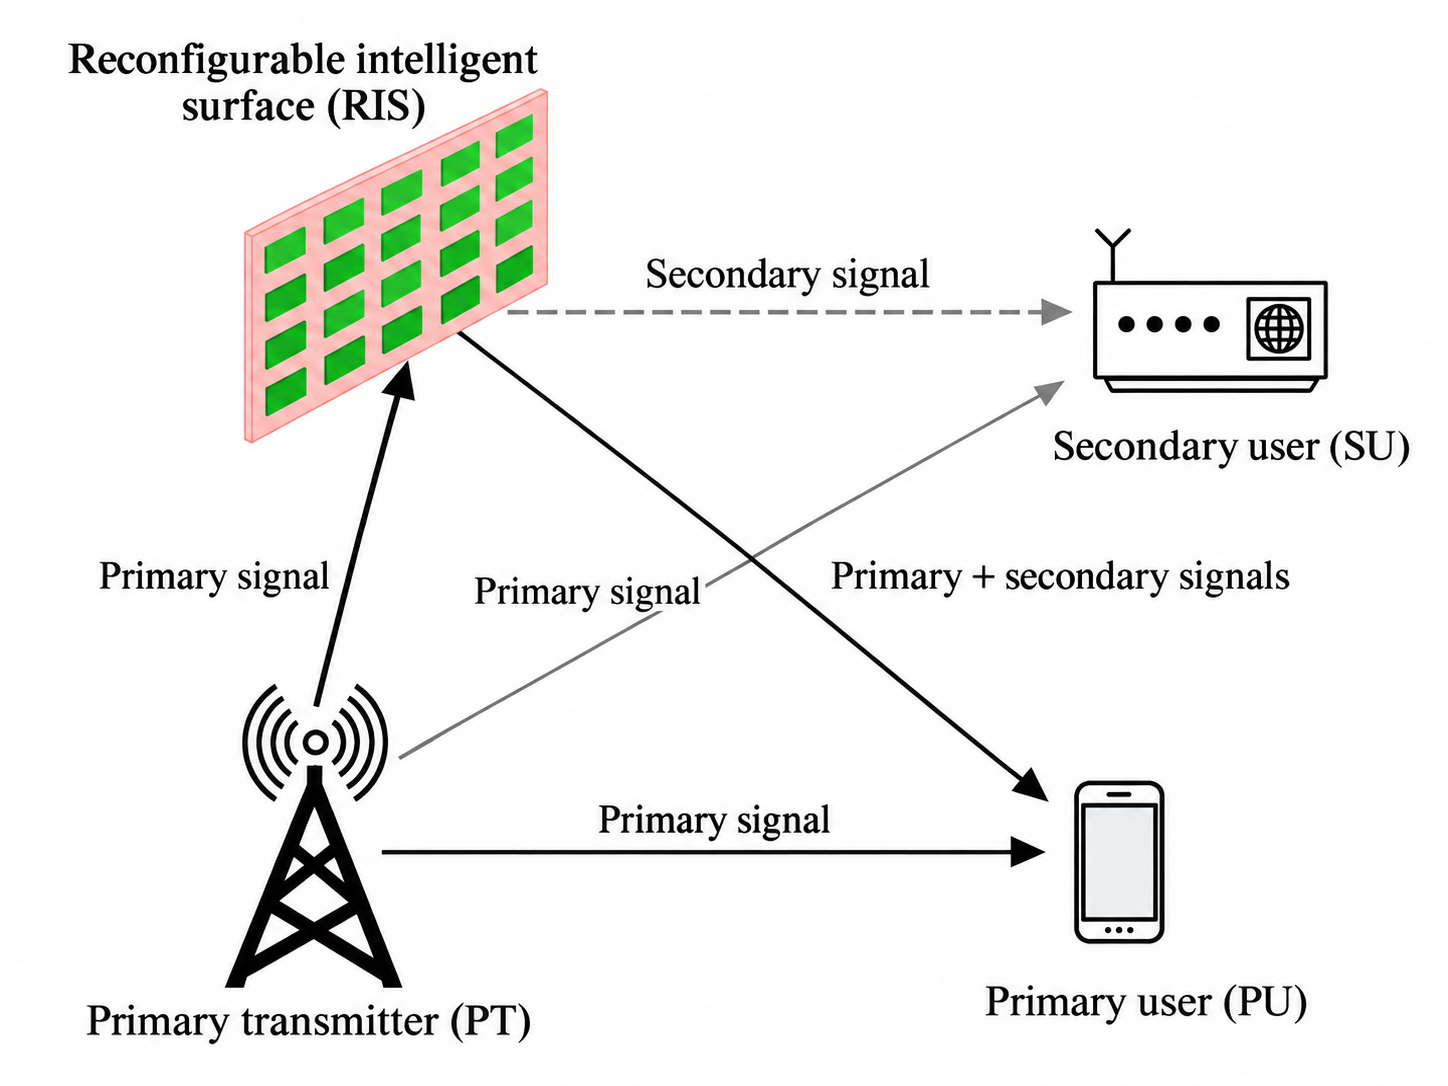
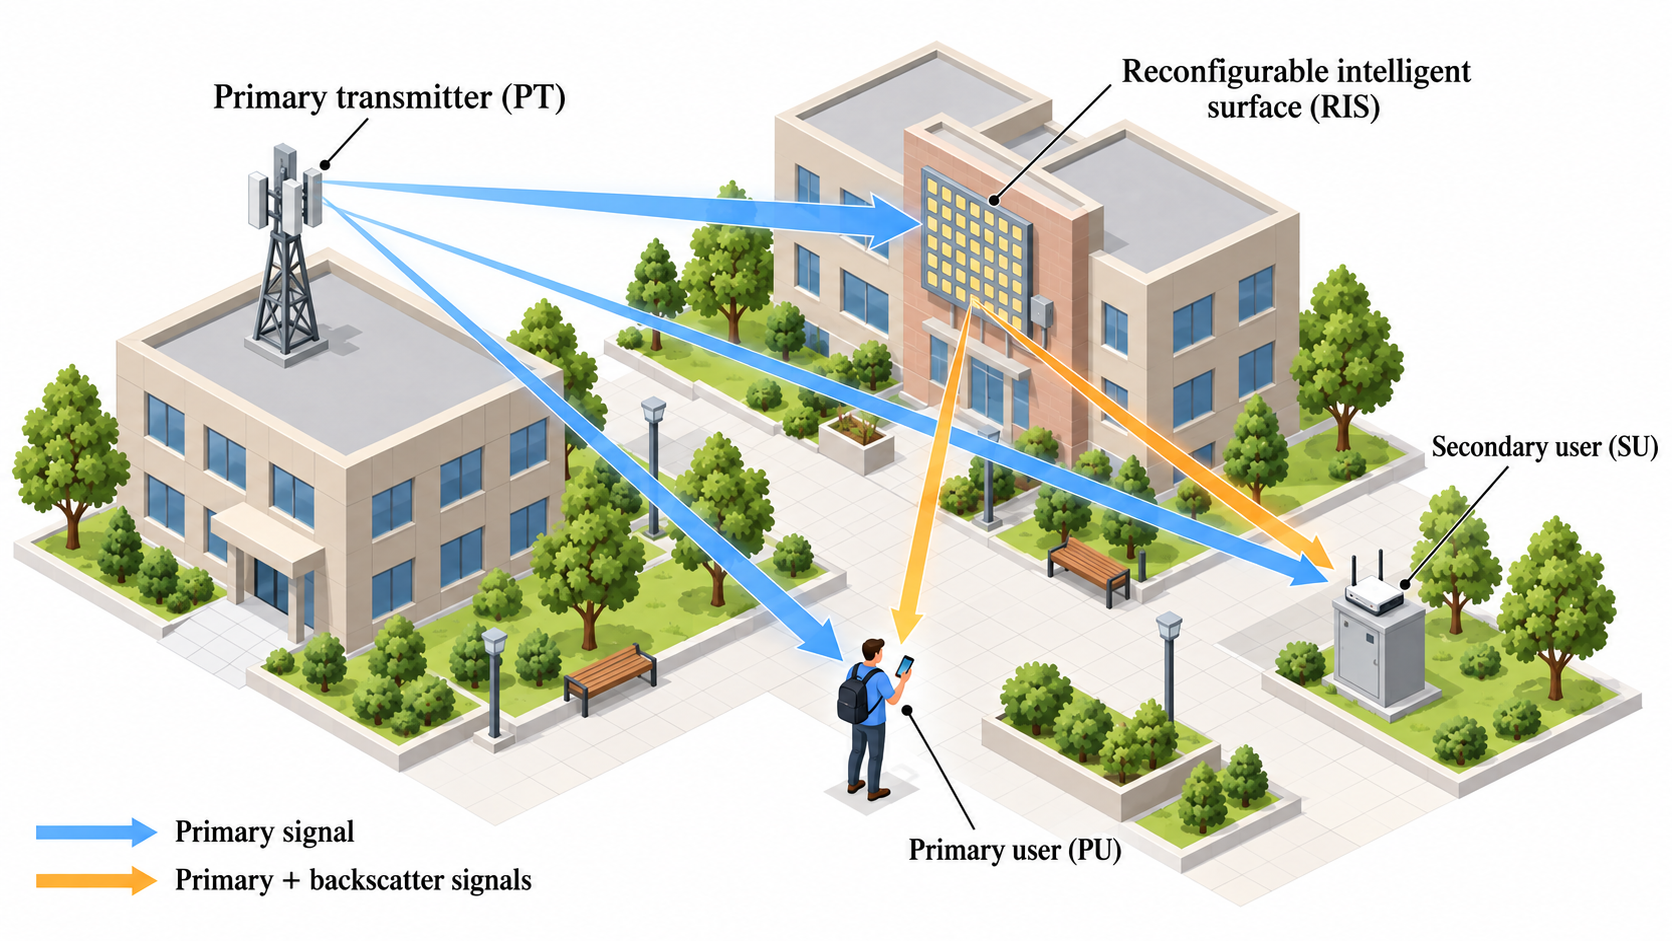
Use a campus scenario illustration for symbiotic radio

diff --git a/assets/css/academic.css b/assets/css/academic.css
@@ -136,4 +136,3 @@ body .page__content .page-directory a:hover {
 /* Full-resolution research figures can be opened without scaling the source file. */
 .page__content .research-image-link { display: block; cursor: zoom-in; }
 .page__content .research-image-link:hover img { box-shadow: none; }
-[aria-labelledby="research-backscatter"] .research-figure { max-width: 780px; margin-left: auto; margin-right: auto; }

diff --git a/_pages/about.md b/_pages/about.md
@@ -103,10 +103,10 @@ redirect_from:
     <p>Backscatter communication conveys information by modulating and reflecting an incident radio signal. In symbiotic radio, the secondary transmission uses the primary signal as its carrier, and the primary and secondary links operate together.</p>
     <p><strong>My focus:</strong> My work studies <a href="https://doi.org/10.1109/TCCN.2023.3306367">transmit-power minimization for STAR-RIS-assisted symbiotic radio</a> by designing active beamforming and surface transmission/reflection coefficients; <a href="https://doi.org/10.1109/TWC.2023.3265770">robust secure multicast transmission with an active RIS</a> under imperfect eavesdropper channel information; and <a href="https://doi.org/10.1109/LWC.2024.3443460">movable-antenna-enabled symbiotic radio</a> to improve primary and secondary rates through antenna positioning.</p>
     <figure class="research-figure">
-      <a class="research-image-link" href="/images/research/symbiotic-radio-en.png?v=20261009-white" target="_blank" rel="noopener noreferrer" aria-label="Open full-resolution symbiotic radio illustration">
-        <img src="/images/research/symbiotic-radio-en.png?v=20261009-white" width="1448" height="1086" loading="lazy" decoding="async" alt="English RIS-assisted symbiotic radio diagram showing a primary transmitter, a reconfigurable intelligent surface, a primary user and a secondary user, with five labeled signal paths.">
+      <a class="research-image-link" href="/images/research/symbiotic-radio-en.png?v=20261009-scene" target="_blank" rel="noopener noreferrer" aria-label="Open full-resolution symbiotic radio illustration">
+        <img src="/images/research/symbiotic-radio-en.png?v=20261009-scene" width="1672" height="941" loading="lazy" decoding="async" alt="White-background isometric campus scene showing a rooftop primary transmitter, a wall-mounted RIS, a primary phone user and a secondary gateway, with three direct primary links and two RIS-assisted primary-plus-backscatter links.">
       </a>
-      <figcaption>Conceptual RIS-assisted symbiotic radio links showing primary transmission and secondary backscatter; illustration only.</figcaption>
+      <figcaption>Conceptual campus scenario for RIS-assisted symbiotic radio: direct primary signals and RIS-assisted primary-plus-backscatter signals; illustration only.</figcaption>
     </figure>
   </section>
 </div>
